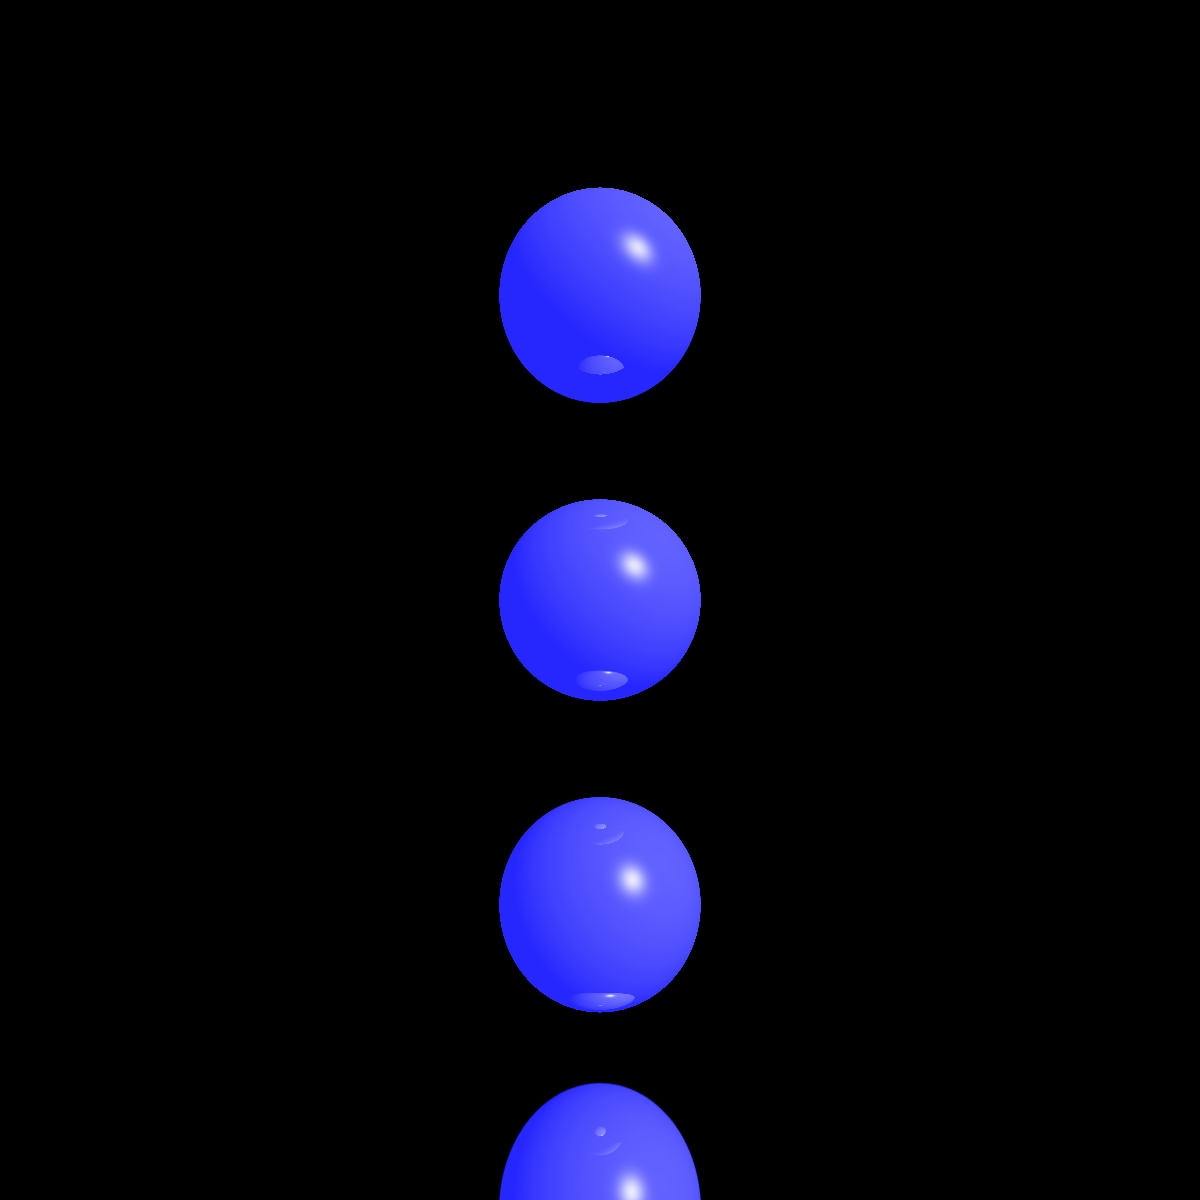
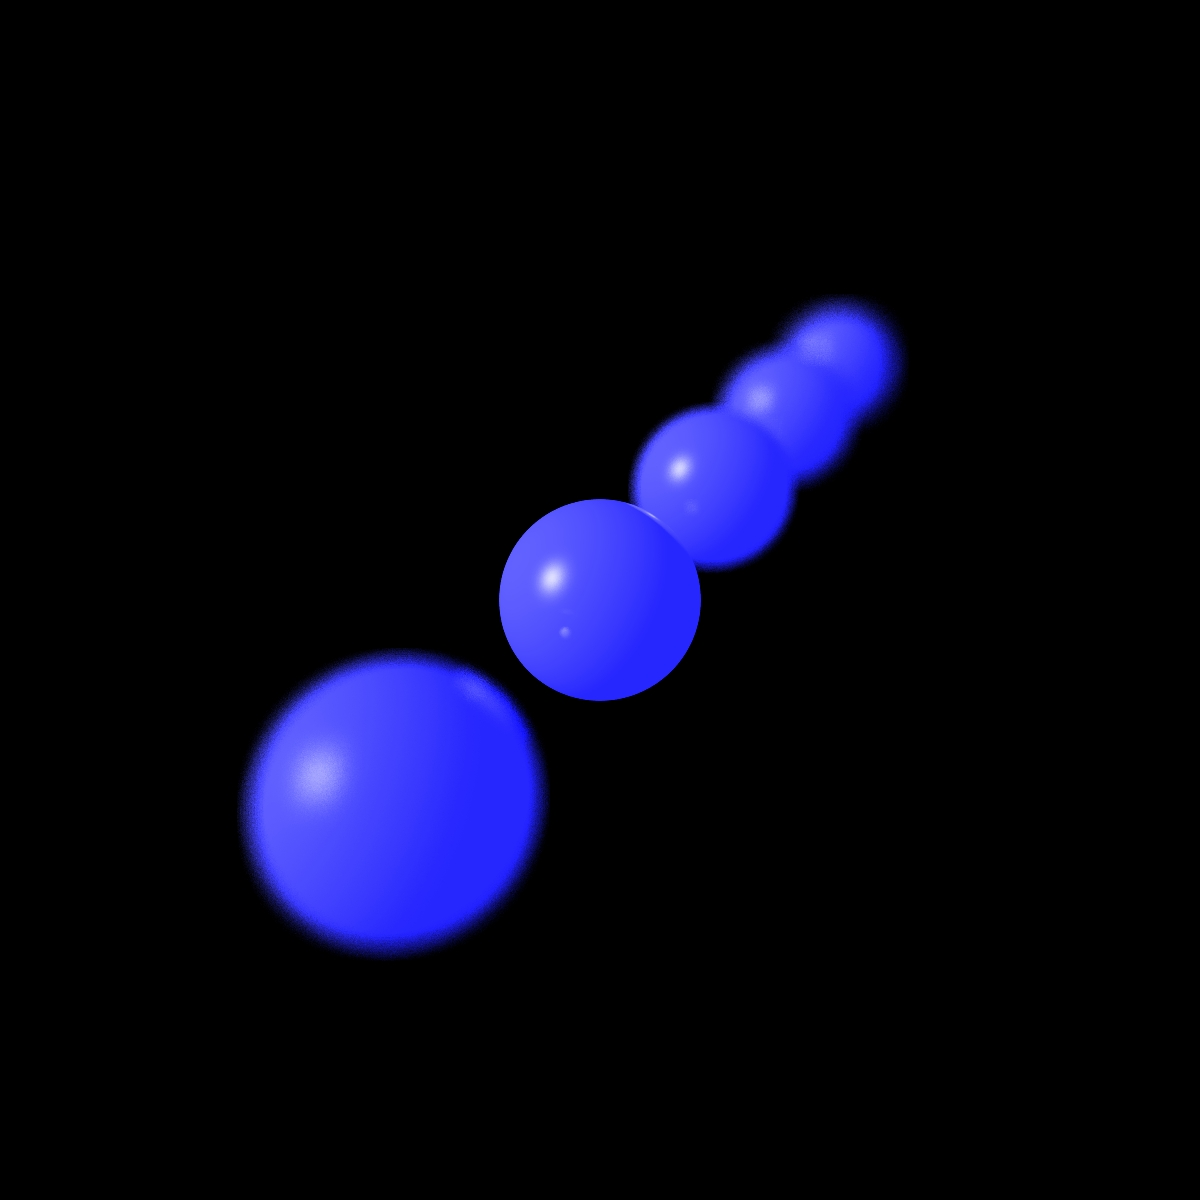
MP1 ready

Changed region(s): [[0.185, 0.1542, 0.7708, 0.8633], [0.4008, 0.8942, 0.5858, 1.0], [0.4933, 0.555, 0.5242, 0.5858]]

diff --git a/src/unittests/renderer/DepthOfFieldTest.java b/src/unittests/renderer/DepthOfFieldTest.java
@@ -20,16 +20,15 @@ import java.awt.*;
  * test for depthOfField operation
  */
 public class DepthOfFieldTest {
-
     /**
-     * test fourBallsDepthOfFieldTest
-     * Produce a picture of 4 Balls with depthOfFieldTest option on
+     * test some balls DOF Test
+     * Produce a picture of some Balls with depthOfFieldTest option on
      */
     @Test
     public void fourBallsDepthOfFieldTest_one() {
         Scene scene = new Scene("Test scene");
-        scene.setCamera(new Camera(new Point3D(0, 0, 0), 800, 0, 0, Math.PI));
-        scene.getCamera().setDepthOfField(400, 6, 100);
+        scene.setCamera(new Camera(new Point3D(0, 0, 0), 800, 0.5, 1, Math.PI));
+        scene.getCamera().setDepthOfField(400, 32, 100);
         scene.getCamera().setDepthOfFieldEnabled();
         scene.setDistance(400);
         scene.setBackground(primitives.Color.BLACK);
@@ -50,16 +49,17 @@ public class DepthOfFieldTest {
 
         scene.addLights(new DirectionalLight(new primitives.Color(200, 200, 200), new Vector(-1, 1, -1)));
 
-            ImageWriter imageWriter = new ImageWriter("fourBallsDepthOfFieldTest_one4", 600, 600, 1200, 1200);
+            ImageWriter imageWriter = new ImageWriter("fourBallsDepthOfFieldTest_one", 600, 600, 1200, 1200);
             Render render = new Render(imageWriter, scene);
             render.renderImage();
             render.writeToImage();
     }
 
     /**
-     * test fourBallsDepthOfFieldTest
-     * Produce number of pictures of 4 Balls from multiple angles with depthOfFieldTest option on
+     * test some balls DOF Test
+     * Produce number of pictures of some Balls from multiple angles with depthOfFieldTest option on
      */
+/*
     @Test
     public void fourBallsDepthOfFieldTest() {
         Scene scene = new Scene("Test scene");
@@ -84,7 +84,7 @@ public class DepthOfFieldTest {
         for (int i = 0; i < NUM_PICTURES; ++i) {
             double theta = Math.PI * 2 * (i * 1.0 / NUM_PICTURES);
             scene.setCamera(new Camera(new Point3D(0, 0, 0), 800, theta, Math.PI / 3, Math.PI));
-            scene.getCamera().setDepthOfField(400, 32, 100);
+            scene.getCamera().setDepthOfField(400, 1000, 100);
             scene.getCamera().setDepthOfFieldEnabled();
             ImageWriter imageWriter = new ImageWriter("fourBallsDepthOfFieldTestEnabled" + i, 600, 600, 1200, 1200);
             Render render = new Render(imageWriter, scene);
@@ -92,69 +92,19 @@ public class DepthOfFieldTest {
             render.writeToImage();
         }
     }
-
-    /**
-     * bonus image
-     * Produce a picture of a reflection triangles
-     * and a partially transparent Sphere and tube lighted by point lights
-     * producing partial shadow and reflection
-     */
-    @Test
-    public void bonusTest() {
-        Scene scene = new Scene("Test scene");
-        scene.setCamera(new Camera(new Point3D(0, 0, 500), 2500, 0.3, 1.5, Math.PI));
-        scene.getCamera().setDepthOfFieldEnabled();
-        scene.getCamera().setDepthOfField(2100, 45, 100);
-        scene.setDistance(400);
-        scene.setBackground(primitives.Color.BLACK);
-        scene.setAmbientLight(new AmbientLight(new primitives.Color(java.awt.Color.WHITE), 0.15));
-        final double SCALED = 10, WIDTH = 100 * SCALED, CENTER_Z = 0 * SCALED;
-        final double KD = 0.3, KS = 1 - KD, KT = 0, KR = 1;
-        /*primitives.Color mirrorColor = new primitives.Color(java.awt.Color.black);
-        scene.addGeometries(
-                new Plane(new primitives.Color(java.awt.Color.black), new Material(0.5, 0.5, 30, 0, 0),
-                        new Point3D(0, 0, 0), new Vector(0, 0, 1)),
-                new Sphere(new primitives.Color(java.awt.Color.blue), new Material(0.2, 0.2, 30, 0.6, 0.4),
-                        300, new Point3D(0, 0, 300)));*/
-        double r = 1000;
-        final int NUM_OF_TUBES = 10;
-        for (int i = 0; i < NUM_OF_TUBES; ++i) {
-            double theta = Math.PI * 2 * (i * 1.0 / NUM_OF_TUBES);
-            scene.addGeometries(
-                    new Tube(new primitives.Color(109, 82, 16), new Material(0.3, 0.7, 50, 0, 0),
-                            new Point3D(r * Math.cos(theta), r * Math.sin(theta), 10), new Vector(0, 0, 1), 100));
-        }
-        /*Point3D[] polygonPoints = new Point3D[NUM_OF_TUBES];
-        for (int i = 0; i < NUM_OF_TUBES; ++i) {
-            double theta = Math.PI * 2 * (i * 1.0 / NUM_OF_TUBES);
-            polygonPoints[i] = new Point3D(r * Math.cos(theta), r * Math.sin(theta), 10);
-        }
-        scene.addGeometries(new Polygon(mirrorColor, new Material(KD, KS, 30, KT, KR), polygonPoints));
-
-        scene.addLights(new PointLight(new primitives.Color(654, 495, 96),
-                new Point3D(0, 0, 1500), 1, 4E-5, 2E-7));
 */
-        scene.addLights(new DirectionalLight(new primitives.Color(200, 200, 200), new Vector(-1, 1, -1)));
-
-        ImageWriter imageWriter = new ImageWriter("bonus test with depth of field1", 1200, 600, 3600, 1800);
-        Render render = new Render(imageWriter, scene);
-
-        render.renderImage();
-        render.writeToImage();
-    }
 
     /**
-     * bonus image
-     * Produce a picture of a reflection triangles
-     * and a partially transparent Sphere and tube lighted by point lights
-     * producing partial shadow and reflection
+     * Produce a picture with 10 tubes mirror and sphere
+     * with reflection retraction and DOF
+     * lighted by point lights directional light
      */
     @Test
-    public void bonusTest1() {
+    public void tubesMirrorAndSphereDOFTest() {
         Scene scene = new Scene("Test scene");
         scene.setCamera(new Camera(new Point3D(0, 0, 500), 2500, 0.3, 1.5, Math.PI));
         scene.getCamera().setDepthOfFieldEnabled();
-        scene.getCamera().setDepthOfField(2100, 64, 100);
+        scene.getCamera().setDepthOfField(2100, 4000, 100);
         scene.setDistance(400);
         scene.setBackground(primitives.Color.BLACK);
         scene.setAmbientLight(new AmbientLight(new primitives.Color(java.awt.Color.WHITE), 0.15));
@@ -185,56 +135,7 @@ public class DepthOfFieldTest {
                 new Point3D(0, 0, 1500), 1, 4E-5, 2E-7));
         scene.addLights(new DirectionalLight(new primitives.Color(200, 200, 200), new Vector(-1, 1, -1)));
 
-        ImageWriter imageWriter = new ImageWriter("depth of field test 3", 500, 500, 1000, 1000);
-        Render render = new Render(imageWriter, scene);
-
-        render.renderImage();
-        render.writeToImage();
-    }
-
-    /**
-     * bonus image
-     * Produce a picture of a reflection triangles
-     * and a partially transparent Sphere and tube lighted by point lights
-     * producing partial shadow and reflection
-     */
-    @Test
-    public void bonusTest2() {
-        Scene scene = new Scene("Test scene");
-        scene.setCamera(new Camera(new Point3D(0, 0, 500), 2500, 0.3, 1.5, Math.PI));
-        scene.getCamera().setDepthOfFieldEnabled();
-        scene.getCamera().setDepthOfField(2100, 64, 100);
-        scene.setDistance(400);
-        scene.setBackground(new primitives.Color(53, 81, 92));//sky color
-        scene.setAmbientLight(new AmbientLight(new primitives.Color(java.awt.Color.WHITE), 0.15));
-        final double SCALED = 10, WIDTH = 100 * SCALED, CENTER_Z = 0 * SCALED;
-        final double KD = 0.3, KS = 1 - KD, KT = 0, KR = 1;
-        primitives.Color mirrorColor = new primitives.Color(java.awt.Color.black);
-        scene.addGeometries(
-                new Plane(new primitives.Color(java.awt.Color.black), new Material(0.5, 0.5, 30, 0, 0),
-                        new Point3D(0, 0, 0), new Vector(0, 0, 1))/*,
-                new Sphere(new primitives.Color(java.awt.Color.blue), new Material(0.2, 0.2, 30, 0.6, 0.4),
-                        300, new Point3D(0, 0, 300))*/);
-        /*double r = 1000;
-        final int NUM_OF_TUBES = 10;
-        for (int i = 0; i < NUM_OF_TUBES; ++i) {
-            double theta = Math.PI * 2 * (i * 1.0 / NUM_OF_TUBES);
-            scene.addGeometries(
-                    new Tube(new primitives.Color(109, 82, 16), new Material(0.3, 0.7, 50, 0, 0),
-                            new Point3D(r * Math.cos(theta), r * Math.sin(theta), 10), new Vector(0, 0, 1), 100));
-        }
-        Point3D[] polygonPoints = new Point3D[NUM_OF_TUBES];
-        for (int i = 0; i < NUM_OF_TUBES; ++i) {
-            double theta = Math.PI * 2 * (i * 1.0 / NUM_OF_TUBES);
-            polygonPoints[i] = new Point3D(r * Math.cos(theta), r * Math.sin(theta), 10);
-        }
-        scene.addGeometries(new Polygon(mirrorColor, new Material(KD, KS, 30, KT, KR), polygonPoints));
-
-        scene.addLights(new PointLight(new primitives.Color(654, 495, 96),
-                new Point3D(0, 0, 1500), 1, 4E-5, 2E-7));
-        scene.addLights(new DirectionalLight(new primitives.Color(200, 200, 200), new Vector(-1, 1, -1)));
-*/
-        ImageWriter imageWriter = new ImageWriter("depth of field test1", 500, 500, 1000, 1000);
+        ImageWriter imageWriter = new ImageWriter("tubes mirror and sphere DOF", 500, 500, 1000, 1000);
         Render render = new Render(imageWriter, scene);
 
         render.renderImage();

diff --git a/src/unittests/renderer/ReflectionRefractionTests.java b/src/unittests/renderer/ReflectionRefractionTests.java
@@ -151,8 +151,9 @@ public class ReflectionRefractionTests {
      * and a partially transparent Sphere and tube lighted by point lights
      * producing partial shadow and reflection
      */
+    /*
     @Test
-    public void bonusTestBestCameraLocation() {
+    public void bonusTestBestCameraLocationWithSpot() {
         Scene scene = new Scene("Test scene");
         final int DISTANCE = 2500;
         scene.setCamera(new Camera(new Point3D(0, 0, 500), DISTANCE, 0.3, 1.5, Math.PI));
@@ -197,21 +198,20 @@ public class ReflectionRefractionTests {
                             1, 0.0001, 0.000005));
         }
 
-        ImageWriter imageWriter = new ImageWriter("bonusTestWithSpot", 1200, 600, 3600, 1800);
+        ImageWriter imageWriter = new ImageWriter("bonusTestWithSpot1", 1200, 600, 3600, 1800);
         Render render = new Render(imageWriter, scene);
 
         render.renderImage();
         render.writeToImage();
     }
-
+*/
     /**
-     * bonus image
-     * Produce a picture of a reflection triangles
-     * and a partially transparent Sphere and tube lighted by point lights
-     * producing partial shadow and reflection
+     * Produce a picture with 10 tubes mirror and sphere
+     * with reflection retraction and DOF
+     * lighted by point lights directional light
      */
     @Test
-    public void bonusTest1() {
+    public void bonusTestBestCameraLocation() {
         Scene scene = new Scene("Test scene");
         final int DISTANCE = 2500;
         scene.setCamera(new Camera(new Point3D(0, 0, 500), DISTANCE, 0.3, 1.5, Math.PI));
@@ -254,10 +254,9 @@ public class ReflectionRefractionTests {
     }
 
     /**
-     * bonus image
-     * Produce a picture of a reflection triangles
-     * and a partially transparent Sphere and tube lighted by point lights
-     * producing partial shadow and reflection
+     * Produce a picture with 10 tubes mirror and sphere
+     * with reflection retraction and DOF
+     * lighted by point lights directional light
      */
     @Test
     public void bonusTestAnotherCameraLocation() {
@@ -269,7 +268,7 @@ public class ReflectionRefractionTests {
         scene.setAmbientLight(new AmbientLight(new Color(java.awt.Color.WHITE), 0.15));
         final double SCALED = 10, WIDTH = 100 * SCALED, CENTER_Z = 0 * SCALED;
         final double KD = 0.3, KS = 1 - KD, KT = 0, KR = 1;
-        Color triangleColor = new Color(java.awt.Color.black);
+        Color PolygonColor = new Color(java.awt.Color.black);
         scene.addGeometries(
                 new Plane(new Color(java.awt.Color.black), new Material(0.5, 0.5, 30, 0, 0),
                         new Point3D(0, 0, 0), new Vector(0, 0, 1)),
@@ -288,7 +287,7 @@ public class ReflectionRefractionTests {
             double theta = Math.PI * 2 * (i * 1.0 / NUM_OF_TUBES);
             polygonPoints[i] = new Point3D(r * Math.cos(theta), r * Math.sin(theta), 10);
         }
-        scene.addGeometries(new Polygon(triangleColor, new Material(KD, KS, 30, KT, KR), polygonPoints));
+        scene.addGeometries(new Polygon(PolygonColor, new Material(KD, KS, 30, KT, KR), polygonPoints));
 
         scene.addLights(new PointLight(new Color(654, 495, 96),
                 new Point3D(0, 0, 1500), 1, 4E-5, 2E-7));
@@ -303,13 +302,13 @@ public class ReflectionRefractionTests {
     }
 
     /**
-     * bonus image
-     * Produce a picture of a reflection triangles
-     * and a partially transparent Sphere and tube lighted by point lights
-     * producing partial shadow and reflection
+     * Produce a picture with 10 tubes mirror and sphere
+     * with reflection retraction and DOF
+     * lighted by point lights directional light and spot lights
      */
+
     @Test
-    public void spotLightOnTubeTest() {
+    public void tubesMirrorAndSphereWithSpotTest() {
         Scene scene = new Scene("Test scene");
         final int DISTANCE = 2500;
         scene.setCamera(new Camera(new Point3D(0, 0, 500), DISTANCE, 0.3, 1.5, Math.PI));

diff --git a/src/elements/Camera.java b/src/elements/Camera.java
@@ -44,15 +44,16 @@ public class Camera {
                 r * Math.cos(phi));
         _location = sceneCenter.add(direction);
         _vTo = direction.scale(-1).normalize();
-        Vector tempUp = null;
+        // calculation for roll the camera
+        Vector tempUp;
         if (isZero(direction.getEnd().getX().get()))
-            tempUp = direction.crossProduct(new Vector(0, direction.getEnd().getZ().get(), // todo make error when direction is (0,0,x)
+            tempUp = direction.crossProduct(new Vector(0, direction.getEnd().getZ().get(),
                     -direction.getEnd().getY().get()).normalize());
         else if (isZero(direction.getEnd().getY().get()))
-            tempUp = direction.crossProduct(new Vector(direction.getEnd().getZ().get(), // todo make error when direction is (0,0,x)
+            tempUp = direction.crossProduct(new Vector(direction.getEnd().getZ().get(),
                     0, -direction.getEnd().getX().get()).normalize());
         else
-            tempUp = direction.crossProduct(new Vector(direction.getEnd().getY().get(), // todo make error when direction is (0,0,x)
+            tempUp = direction.crossProduct(new Vector(direction.getEnd().getY().get(),
                     -direction.getEnd().getX().get(), 0)).normalize();
 
         Vector tempRight = _vTo.crossProduct(tempUp).normalize();
@@ -123,17 +124,21 @@ public class Camera {
     public List<Ray> constructDepthOfFieldRays(int nX, int nY,
                                                int j, int i, double screenDistance,
                                                double screenWidth, double screenHeight) {
-        Point3D pij = getPoint3DPij(nX, nY, j, i, screenDistance, screenWidth, screenHeight);
-        Vector pijVector = pij.subtract(_location).normalized();
-        Point3D focalPoint = pij.add(pijVector.scale(_focalLenDistance));
+        // find point on the VP
+        Point3D pijVP = getPoint3DPij(nX, nY, j, i, screenDistance, screenWidth, screenHeight);
+        // vector from camera to point on the VP
+        Vector pijVPVector = pijVP.subtract(_location).normalized();
+        // find point on the Focal plane
+        Point3D focalPoint = pijVP.add(pijVPVector.scale(_focalLenDistance));
+        // create _rayAmount vectors from VP to Focal Plane in uniform distribution
         List<Ray> focalRays = new LinkedList<>();
         Random random = new Random();
         int numRaysInWidth = (int) Math.sqrt(_rayAmount);
         for (int k = 0; k < _rayAmount; k++) {
-            Point3D pijMoved = getHeadFocalRay(pij, random.nextInt(numRaysInWidth), random.nextInt(numRaysInWidth));
-            focalRays.add(new Ray(pijMoved, focalPoint.subtract(pijMoved)));
+            Point3D pijDOF = getHeadFocalRay(pijVP, random.nextInt(numRaysInWidth), random.nextInt(numRaysInWidth));
+            focalRays.add(new Ray(pijDOF, focalPoint.subtract(pijDOF)));
         }
-        // pij is always not equal to _location
+        // pijVP is always not equal to _location
         return focalRays;
     }
 
